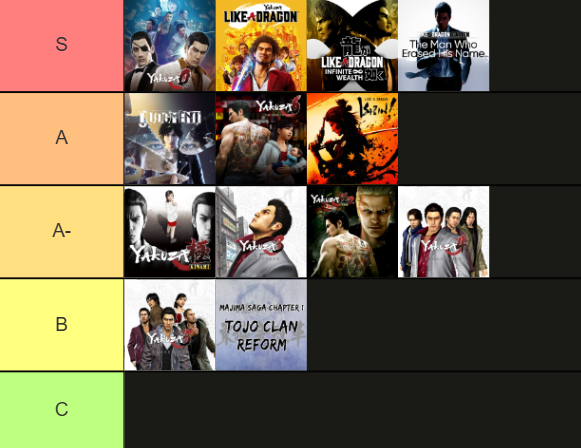
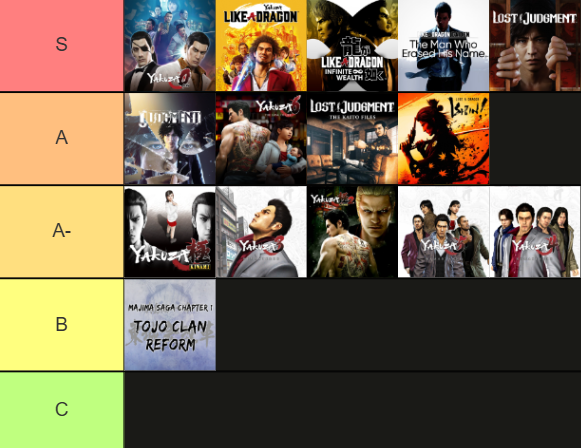
Yakuza: Update progress

Changed region(s): [[0.5267, 0.0, 1.0, 0.625], [0.1859, 0.625, 0.5267, 0.8438]]

diff --git a/src/pages/yakuza.md b/src/pages/yakuza.md
@@ -1,22 +1,22 @@
 ---
 layout: ../components/YakuzaLayout.astro
 ---
-- [x] 👑 Yakuza 0 <sub>60 hrs</sub>
-- [x] 👑 Yakuza Kiwami 1 <sub>35 hrs</sub>
-- [x] 👑 Yakuza Kiwami 2 <sub>40 hrs</sub>
-- [x] Yakuza 3 Remastered <sub>20 hrs</sub>
-- [x] Yakuza 4 Remastered <sub>20 hrs</sub>
+- [x] ⭐ Yakuza 0 <sub>60 hrs</sub>
+- [x] ⭐ Yakuza Kiwami 1 <sub>35 hrs</sub>
+- [x] ⭐ Yakuza Kiwami 2 <sub>40 hrs</sub>
+- [x] 🔎 Yakuza 3 Remastered <sub>20 hrs</sub>
+- [x] 🔎 Yakuza 4 Remastered <sub>20 hrs</sub>
 - [x] 🔎 Yakuza 5 Remastered <sub>50 hrs</sub>
 - [x] 🔎 Yakuza 6: The Song of Life <sub>30 hrs</sub>
-- [x] 👑 Yakuza: Like a Dragon <sub>80 hrs</sub>
-- [x] 👑 Like a Dragon Gaiden <sub>30 hrs</sub>
+- [x] ⭐ Yakuza: Like a Dragon <sub>80 hrs</sub>
+- [x] ⭐ Like a Dragon Gaiden <sub>30 hrs</sub>
 - [x] 🔎 Like a Dragon: Infinite Wealth <sub>110 hrs</sub>
 - [x] 🔎 Like a Dragon: Ishin! <sub>28 hrs</sub>
-- [x] 👑 Judgment <sub>64 hrs</sub>
-- [ ] Lost Judgment
-- [ ] Lost Judgment: The Kaito Files
+- [x] ⭐ Judgment <sub>64 hrs</sub>
+- [x] 🔎 Lost Judgment <sub>43 hrs</sub>
+- [x] ⭐ Lost Judgment: The Kaito Files <sub>8 hrs</sub>
 - [ ] Like a Dragon: Pirate Yakuza in Hawaii
 
 <sub>🔎 — Games I plan to come back to for side stories I missed</sub>
 
-<sub>👑 — Games in which I completed all the side content I wanted to do</sub>
+<sub>⭐ — Games in which I completed all the side content I wanted to do</sub>
